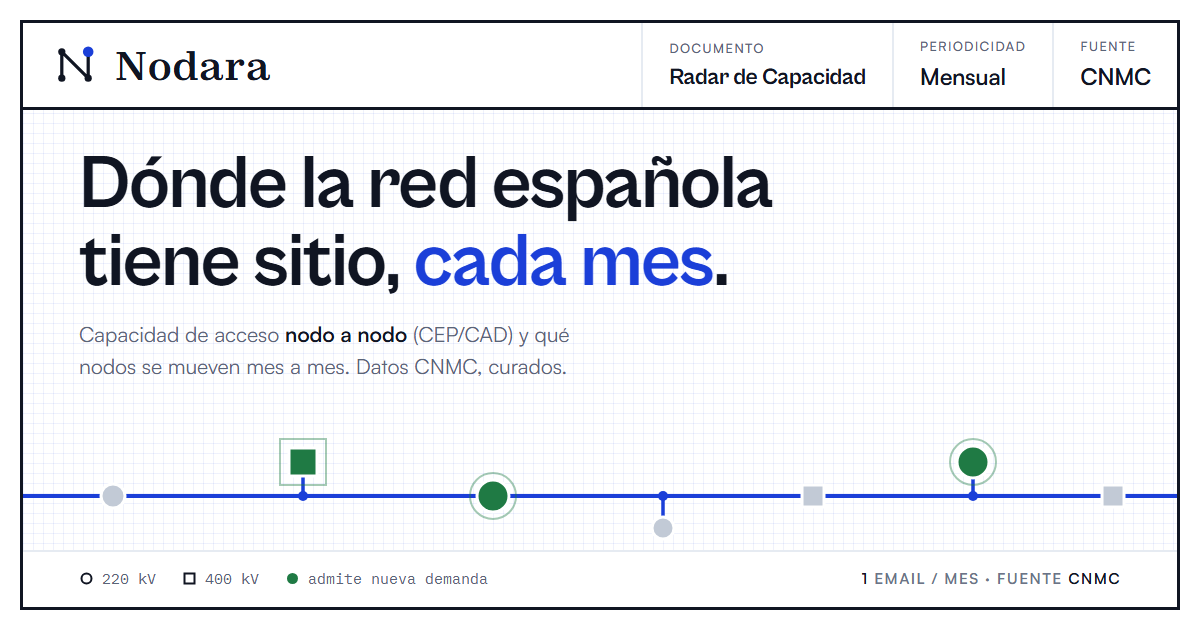
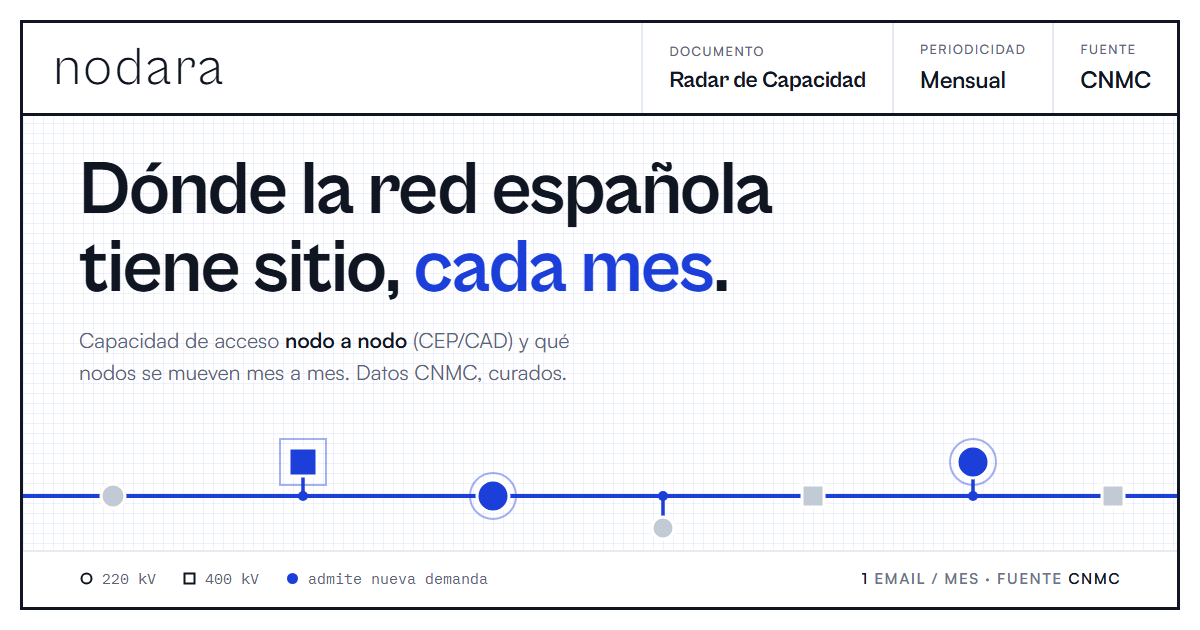
Tarjeta OG: alineada con la landing (minusculas, sin isotipo, cobalto)
La preview de WhatsApp seguia enseñando 'Nodara' en Zodiak con isotipo y los
nudos en verde, mientras la landing va en minusculas y cobalto.

- Wordmark 'nodara' en Cabinet Light a 54px: WhatsApp la enseña a un tercio de
  tamaño y un Light de 40px se deshilacha en la miniatura.
- Unifilar y leyenda a cobalto (el punto de la leyenda llevaba el verde
  incrustado a pelo dentro del SVG).
- Fuera zodiak-700.woff2: ya no la pide nadie aqui. 21 KB menos.

⚠ og:image pasa a og.png?v=2: WhatsApp cachea la preview por URL.

diff --git a/og-source.html b/og-source.html
@@ -7,7 +7,6 @@
      abrirla desde captacion/ para que `fuentes/` resuelva. */
   @font-face{font-family:'Cabinet Grotesk';src:url(fuentes/cabinet-grotesk-100-900.woff2);font-weight:100 900;font-display:block;}
   @font-face{font-family:'Satoshi';src:url(fuentes/satoshi-300-900.woff2);font-weight:300 900;font-display:block;}
-  @font-face{font-family:'Zodiak';src:url(fuentes/zodiak-700.woff2);font-weight:700;font-display:block;} /* SOLO el wordmark */
   @font-face{font-family:'IBM Plex Mono';src:url(fuentes/ibm-plex-mono-400.woff2);font-weight:400;font-display:block;}
 </style>
 <style>
@@ -25,12 +24,10 @@
     --track:#EDF1F6;
     --brand:#1B3FD8;
     --brand-deep:#122E9E;
-    --ok:#1F7A44;
     --titulo:"Cabinet Grotesk","Segoe UI",-apple-system,Arial,sans-serif;
     --sans:"Satoshi","Segoe UI",-apple-system,Arial,sans-serif;
     --cuerpo:"Satoshi","Segoe UI",-apple-system,Arial,sans-serif;
     --mono:"IBM Plex Mono","Cascadia Code",Consolas,ui-monospace,monospace;
-    --marca:"Zodiak",Georgia,"Times New Roman",serif;
     --w-titulo:700;
     --w-fuerte:600;
   }
@@ -56,12 +53,22 @@
 
   /* cajetín */
   .cajetin{display:flex;align-items:stretch;border-bottom:3px solid var(--ink);background:var(--panel);}
-  .cj-brand{display:flex;align-items:center;gap:16px;padding:18px 28px;flex:1;}
-  .logo-mark{width:48px;height:48px;flex:none;}
-  .logo-mark .edge{stroke:var(--ink);stroke-width:2.7;stroke-linecap:round;stroke-linejoin:round;fill:none;}
-  .logo-mark .node{fill:var(--ink);}
-  .logo-mark .node.on{fill:var(--brand);}
-  .wordmark{font-family:var(--marca);font-weight:700;font-size:40px;line-height:1;letter-spacing:.01em;color:var(--ink);}
+  .cj-brand{display:flex;align-items:center;padding:18px 30px;flex:1;}
+  /* ⚠ LA TARJETA LLEVA LA MARCA DE LA LANDING, NO LA DEL INFORME (2026-09-09). Es la puerta de
+     entrada a la landing: se comparte por WhatsApp o LinkedIn y el siguiente clic aterriza en
+     esa pagina. Si la tarjeta enseña «Nodara» en Zodiak con isotipo y la pagina «nodara» en
+     minusculas sin el, el visitante cree que se ha equivocado de sitio. El informe y el
+     Registro SI conservan Zodiak y el isotipo: ahi la marca vive dentro de un documento.
+
+     ⚠ NO usa `--marca`. Ese token vale Zodiak y lo vuelca `npm run diseno` desde el informe;
+     ponerlo aqui lo devolveria a la serifa en el primer `--aplicar`. La familia va escrita en
+     la regla, igual que `--marca-landing` en la landing.
+
+     ⚠ 54px Y NO LOS 40 DE LA LANDING, a proposito. Esto es un poster de 1200px que WhatsApp
+     enseña a un tercio de tamaño: 40px de peso Light bajarian a ~13px efectivos y el trazo fino
+     se deshilacha en la miniatura, que es donde de verdad se ve esta pieza. */
+  .wordmark{font-family:"Cabinet Grotesk","Segoe UI",-apple-system,Arial,sans-serif;
+            font-weight:300;font-size:54px;line-height:1;letter-spacing:.04em;color:var(--ink);}
   .cj-field{border-left:2px solid var(--hair);padding:14px 26px;display:flex;flex-direction:column;justify-content:center;gap:6px;}
   .cj-k{font-family:var(--sans);font-weight:500;font-size:13px;letter-spacing:.1em;text-transform:uppercase;color:var(--ink-soft);}
   .cj-v{font-family:var(--sans);font-weight:var(--w-fuerte);font-size:23px;letter-spacing:-.01em;color:var(--ink);white-space:nowrap;}
@@ -80,14 +87,16 @@
     text-align:left;text-wrap:pretty;}
   .lede b{color:var(--ink);font-weight:600;}
 
-  /* unifilar (estado final: nudos verdes encendidos) */
+  /* unifilar (estado final: nudos encendidos en cobalto) */
   .uni{margin-top:auto;}
   .uni svg{display:block;width:100%;height:auto;}
   .u-bus{stroke:var(--brand);stroke-width:4;fill:none;}
   .u-stub{stroke:var(--brand);stroke-width:3.5;fill:none;}
   .u-j{fill:var(--brand);}
-  .nd-ok{fill:var(--ok);stroke:#fff;stroke-width:3;}
-  .nd-halo{fill:none;stroke:var(--ok);stroke-width:2;opacity:.4;}
+  /* Cobalto, no verde: la landing pinta el dato con la marca desde el 2026-09-09 y esta
+     tarjeta es su puerta de entrada (§8.2). El informe conserva el verde. */
+  .nd-ok{fill:var(--brand);stroke:#fff;stroke-width:3;}
+  .nd-halo{fill:none;stroke:var(--brand);stroke-width:2;opacity:.4;}
   .nd-closed{fill:#C2CAD6;stroke:#fff;stroke-width:3;}
 
   /* pie: leyenda + especificaciones */
@@ -107,14 +116,7 @@
 
     <div class="cajetin">
       <div class="cj-brand">
-        <svg class="logo-mark" viewBox="0 0 40 40" fill="none" role="img" aria-label="Nodara">
-          <path class="edge" d="M9 31 V9 L31 31 V9"/>
-          <circle class="node" cx="9" cy="31" r="3"/>
-          <circle class="node" cx="9" cy="9" r="3"/>
-          <circle class="node" cx="31" cy="31" r="3"/>
-          <circle class="node on" cx="31" cy="9" r="4.4"/>
-        </svg>
-        <span class="wordmark">Nodara</span>
+        <span class="wordmark">nodara</span>
       </div>
       <div class="cj-field cj-doc">
         <span class="cj-k">Documento</span>
@@ -161,7 +163,7 @@
     <div class="facts">
       <span class="lg"><svg width="15" height="15" viewBox="0 0 15 15"><circle cx="7.5" cy="7.5" r="5" fill="none" stroke="#101522" stroke-width="2"/></svg> 220 kV</span>
       <span class="lg"><svg width="15" height="15" viewBox="0 0 15 15"><rect x="2.5" y="2.5" width="10" height="10" fill="none" stroke="#101522" stroke-width="2"/></svg> 400 kV</span>
-      <span class="lg"><svg width="15" height="15" viewBox="0 0 15 15"><circle cx="7.5" cy="7.5" r="5.5" fill="#1F7A44"/></svg> admite nueva demanda</span>
+      <span class="lg"><svg width="15" height="15" viewBox="0 0 15 15"><circle cx="7.5" cy="7.5" r="5.5" fill="#1B3FD8"/><!-- cobalto A PELO: dentro de un SVG el token no llega --></svg> admite nueva demanda</span>
       <span class="spec"><b>1</b> email / mes · Fuente <b>CNMC</b></span>
     </div>
 

diff --git a/index.html b/index.html
@@ -17,7 +17,7 @@
 <meta property="og:site_name" content="Nodara">
 <meta property="og:locale" content="es_ES" data-en-content="en_US">
 <meta property="og:url" content="https://vsimobaeza.github.io/NodaraWeb/">
-<meta property="og:image" content="https://vsimobaeza.github.io/NodaraWeb/og.png">
+<meta property="og:image" content="https://vsimobaeza.github.io/NodaraWeb/og.png?v=2">
 <meta property="og:image:width" content="1200">
 <meta property="og:image:height" content="630">
 <meta property="og:image:alt" content="Nodara · Radar de Capacidad — dónde la red española tiene sitio, cada mes" data-en-content="Nodara · Capacity Radar — where the Spanish grid has room, every month">
